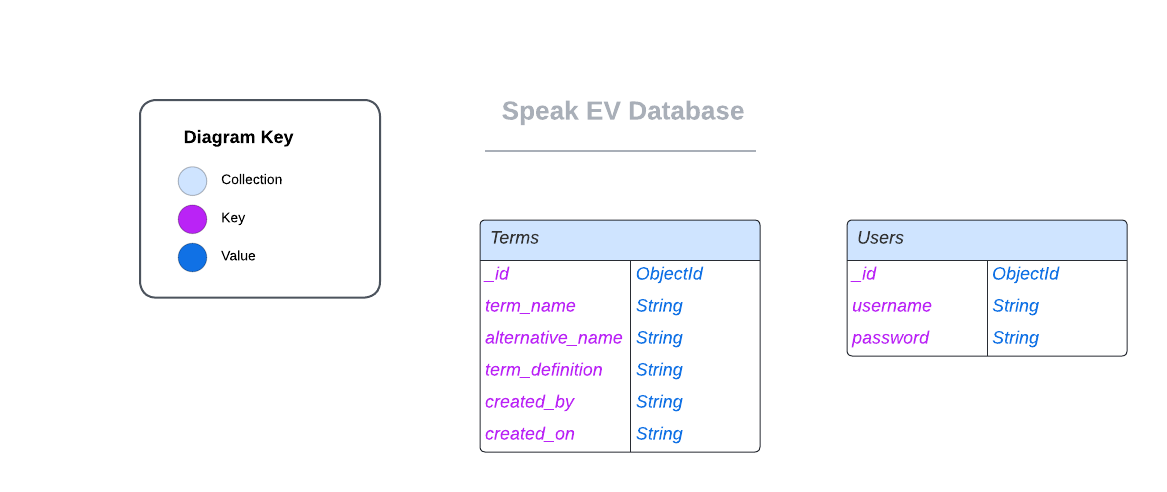
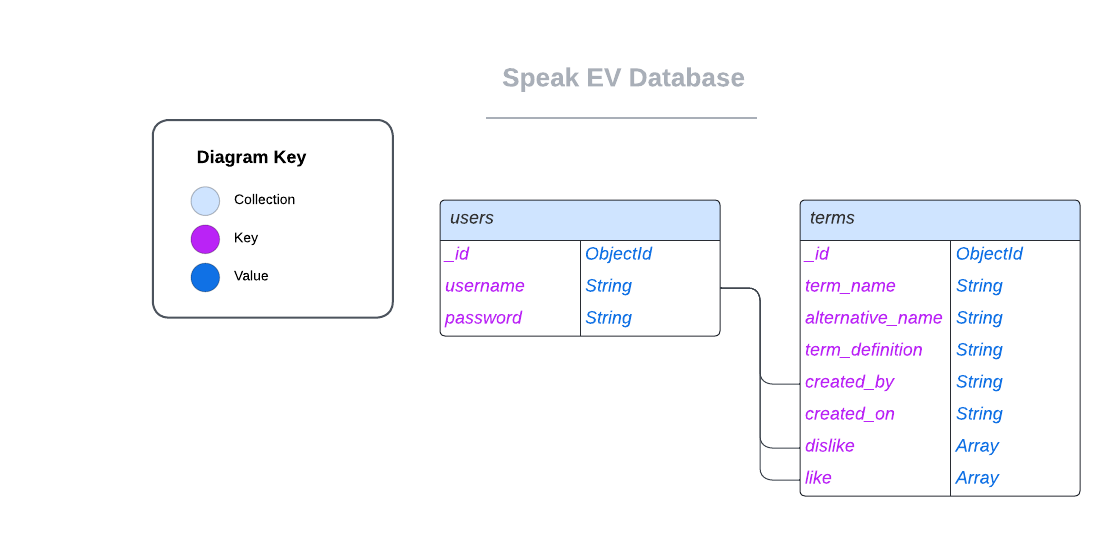
Docs new database model added and breakdown of collections

diff --git a/static/css/style.css b/static/css/style.css
@@ -184,6 +184,17 @@ buttons
     background-color: #fafafa;
 }
 
+.vote-btns {
+    background-color: #b2ff59;
+    color: #000;
+    margin: 5px;
+    cursor: pointer;
+}
+
+.vote-btns:hover {
+    background-color: #76ff03;
+}
+
 /* ==========
 back to top button
 ========== */

diff --git a/app.py b/app.py
@@ -138,7 +138,9 @@ def add_term():
             "alternative_name": request.form.get("alternative_name").upper(),
             "term_definition": request.form.get("term_definition"),
             "created_by": session["user"],
-            "created_on": datetime.today().strftime("%d-%b-%Y")
+            "created_on": datetime.today().strftime("%d-%b-%Y"),
+            "like": [],
+            "dislike": []
         }
         mongo.db.terms.insert_one(term)
         flash("Term Successfully Added to Dictionary")

diff --git a/README.md b/README.md
@@ -168,6 +168,29 @@ Wireframes for mobile, tablet, and desktop can be found below:
 
   </details>
 
+## Breakdown of Collections
+
+### users
+| Key      | Value    | Description                    |
+|----------|----------|--------------------------------|
+| _id      | ObjectId | primary key                    |
+| username | String   | username chosen during sign-up |
+| password | String   | werkzeug salted password hash  |
+
+
+### terms
+| Key              | Value    | Description                                              |
+|------------------|----------|----------------------------------------------------------|
+| _id              | ObjectId | primary key                                              |
+| term_name        | String   | main term name.                                          |
+| alternative_name | String   | secondary term name (if any)                             |
+| term_definition  | String   | definition of the term                                   |
+| created_by       | String   | username from users collection                           |
+| created_on       | String   | datetime automatically added                             |
+| dislike          | Array    | users _id is added to the array when they dislike a term |
+| like             | Array    | users _id is added to the array when they like a term    |
+
+
 &nbsp;
 
 [Back to top &uarr;](#speak-ev)
